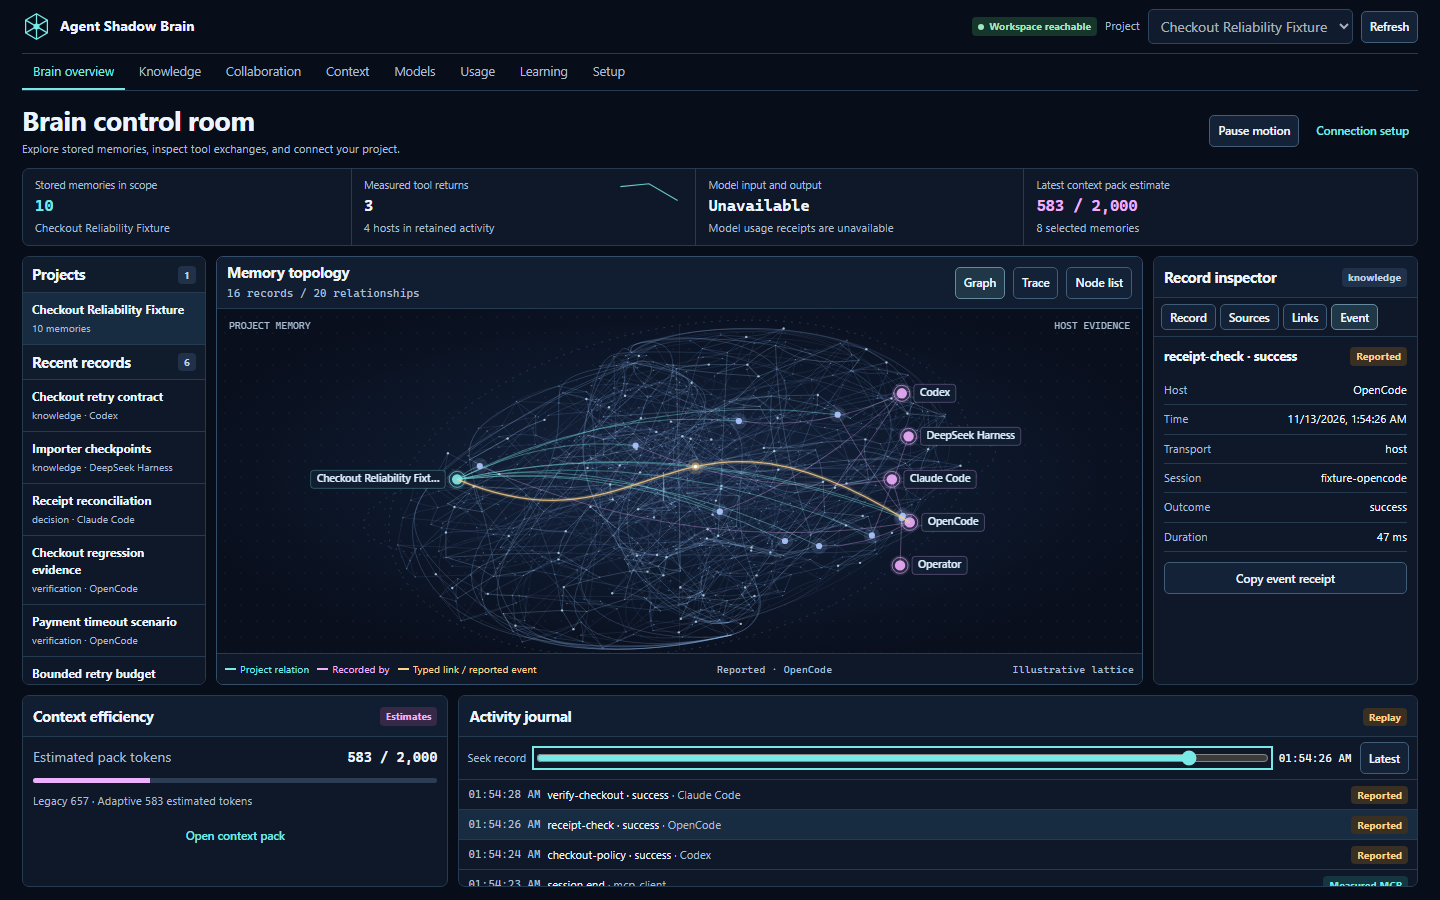
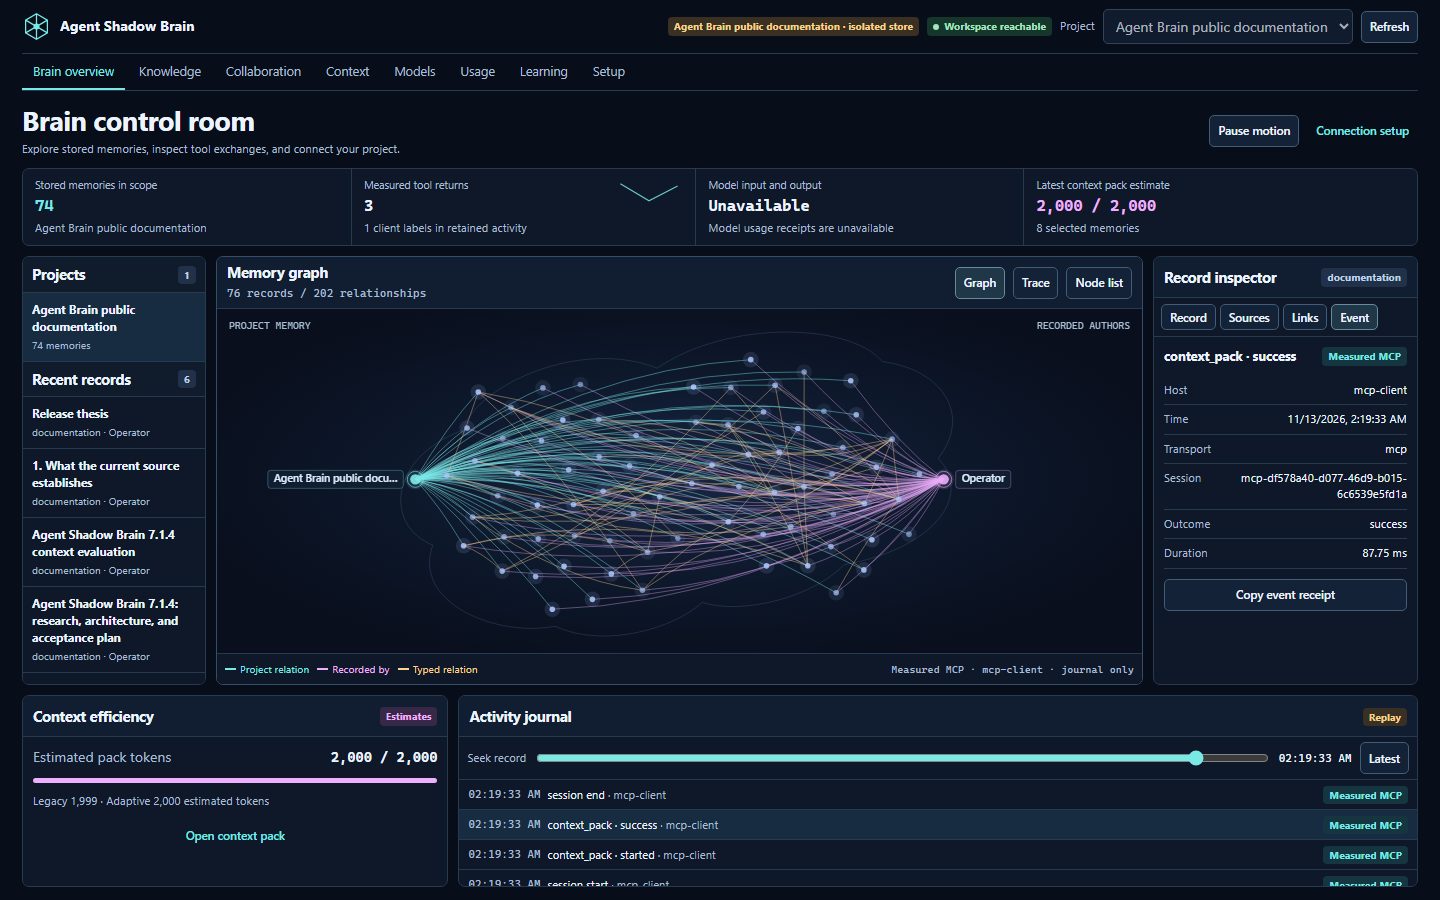
Show actual documentation graph and measured MCP work

diff --git a/docs/projects/agent-shadow-brain.html b/docs/projects/agent-shadow-brain.html
@@ -13,7 +13,7 @@
 <section class="case-section" id="workflow"><div class="case-section-heading"><span class="case-kicker">/ 02 — SYSTEM FLOW</span><h2>From input to <em>outcome.</em></h2><p>Conceptual workflow aligned to the project's published documentation.</p></div><a class="case-workflow-image" href="../assets/flow-agent-shadow-brain.svg" target="_blank" rel="noopener noreferrer" aria-label="Open detailed workflow image"><img src="../assets/flow-agent-shadow-brain.svg" alt="Agent Shadow Brain workflow illustration" width="1200" height="280" loading="lazy"></a><div class="case-step-grid"><div class="case-step"><span>01</span><h3>Scope task</h3><p>Select working project and objectives</p></div><div class="case-step"><span>02</span><h3>Recall memory</h3><p>Search decisions, notes and evidence</p></div><div class="case-step"><span>03</span><h3>Review context</h3><p>Curate and inspect saved information</p></div><div class="case-step"><span>04</span><h3>Build pack</h3><p>Assemble a token-budgeted context</p></div><div class="case-step"><span>05</span><h3>Agent workflow</h3><p>Hand off context to supported coding clients</p></div><div class="case-step"><span>06</span><h3>Observe activity</h3><p>Inspect MCP events and integration health</p></div></div></section>
 <section class="case-section case-code" id="technology"><div class="case-section-heading"><span class="case-kicker">/ 03 — QUICK START</span><h2>Explore the <em>implementation.</em></h2><p>Installation excerpt from the source repository. Open the README for all requirements.</p></div><div class="case-terminal"><div class="case-terminal-top"><span>◉</span><b>PROJECT STARTER</b><a href="https://github.com/theihtishaam/agents-brain/tree/main/docs" target="_blank" rel="noopener noreferrer">COMPLETE DOCS ↗</a></div><pre><code>npm install -g @theihtisham/agent-shadow-brain@latest</code></pre></div></section>
 <section class="case-section case-gallery" id="gallery"><div class="case-section-heading"><span class="case-kicker">/ 04 — PRODUCT VIEWS</span><h2>Real interface. <em>Not stock imagery.</em></h2><p>Source screenshots from the public project repository.</p></div><div class="case-gallery-grid"><a class="case-shot" href="../../assets/agent-brain-runtime.png" target="_blank" rel="noopener noreferrer"><img src="../../assets/agent-brain-runtime.png" loading="lazy" alt="AGENT SHADOW BRAIN — WORKSPACE OVERVIEW"><span>WORKSPACE OVERVIEW <b>VIEW ORIGINAL ↗</b></span></a><a class="case-shot" href="../../assets/agent-brain-runtime.gif" target="_blank" rel="noopener noreferrer"><img src="../../assets/agent-brain-runtime.gif" loading="lazy" alt="AGENT SHADOW BRAIN — MEMORY GRAPH"><span>MEMORY GRAPH <b>VIEW ORIGINAL ↗</b></span></a></div></section>
-<section class="case-section case-note"><span class="case-kicker">/ SOURCE &amp; TRUST</span><p>Recorded demo uses scripted local MCP clients and synthetic project data.</p><p>This case-study page is a portfolio explainer, not a replacement for the active project's README. The source repository remains under <a href="https://github.com/theihtishaam" target="_blank" rel="noopener noreferrer">@theihtishaam</a> as the current project home.</p></section>
+<section class="case-section case-note"><span class="case-kicker">/ SOURCE &amp; TRUST</span><p>This capture uses imported public project documentation and actual local MCP calls in an isolated store.</p><p>This case-study page is a portfolio explainer, not a replacement for the active project's README. The source repository remains under <a href="https://github.com/theihtishaam" target="_blank" rel="noopener noreferrer">@theihtishaam</a> as the current project home.</p></section>
 <section class="case-contact" id="contact"><span class="case-kicker">/ 05 — EXPLORE MORE</span><h2>Go from idea to <em>code.</em></h2><div class="case-cta-links"><a href="https://github.com/theihtishaam/agents-brain" target="_blank" rel="noopener noreferrer">GITHUB SOURCE ↗</a><a href="https://github.com/theihtishaam/agents-brain#readme" target="_blank" rel="noopener noreferrer">VIEW RECORDED DEMO ↗</a><a href="https://www.npmjs.com/package/@theihtisham/agent-shadow-brain" target="_blank" rel="noopener noreferrer">NPM PACKAGE ↗</a><a href="../index.html#work">ALL PROJECTS ↗</a></div></section>
 </main><footer class="case-footer shell"><a href="../index.html">IA / ENGINEERING PORTFOLIO</a><span>© 2026 IHTISHAM AHMAD</span><a href="https://www.linkedin.com/in/ihtishamdeveloper/" target="_blank" rel="noopener noreferrer">LINKEDIN ↗</a></footer>
 </body></html>

diff --git a/README.md b/README.md
@@ -22,7 +22,7 @@ I’m **Ihtisham Ahmad**, a software engineer building business applications, we
 
 <a href="https://github.com/theihtishaam/agents-brain"><img src="./assets/agent-brain-runtime.gif" width="100%" alt="Agent Shadow Brain control room showing real memory relationships and recorded tool activity"></a>
 
-<sub>Recorded in the working local portal with synthetic project data. Motion shows recorded activity; this is not a live stream of my computer.</sub>
+<sub>Recorded in the working portal with 74 imported sections from Agent Brain’s public documentation and actual local MCP calls. The graph shows stored records and document references.</sub>
 
 <a href="https://github.com/theihtishaam/exactwork-skills"><img src="./assets/exactwork-feature.svg" width="100%" alt="ExactWork Skills: understand, plan the work, build and check, keep the lesson"></a>
 

diff --git a/docs/projects/agent-shadow-brain.md b/docs/projects/agent-shadow-brain.md
@@ -22,4 +22,4 @@ Use the [project quickstart](https://github.com/theihtishaam/agents-brain/blob/m
 
 The [dated download snapshot](../../data/npm-metrics.json) refreshes from the project's public metrics. Downloads count package requests, not unique people.
 
-The animation above was captured in the actual portal using synthetic project data.
+The animation above uses 74 imported sections from 18 public project documents in an isolated store. Its graph shows actual stored records and document references; its journal records real local MCP calls. No native host connection or model usage is inferred.
